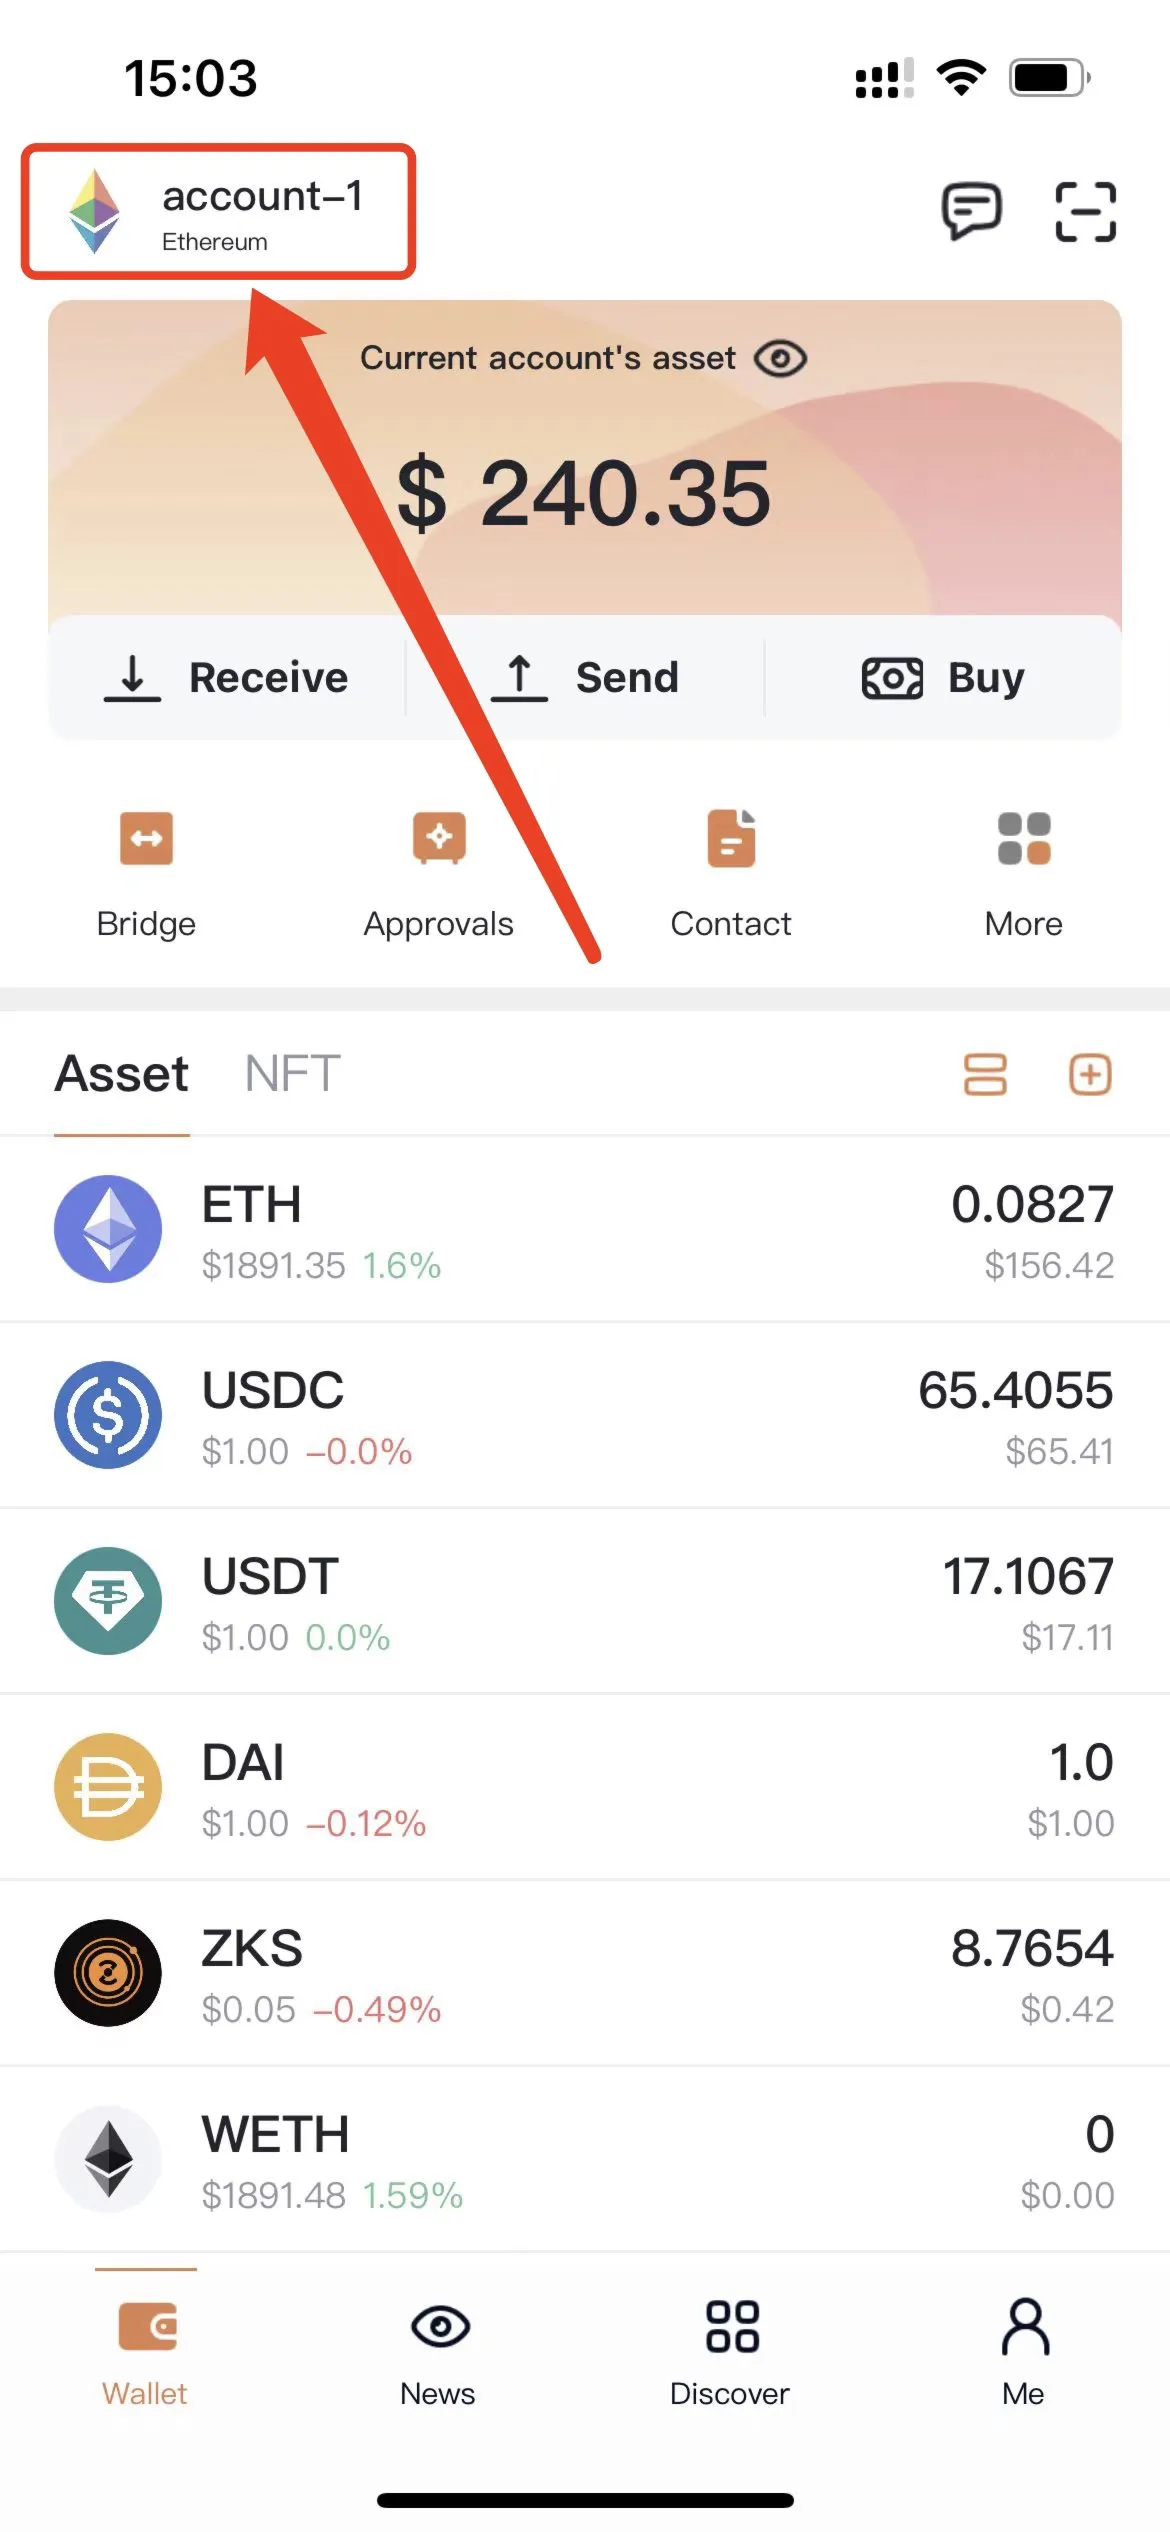
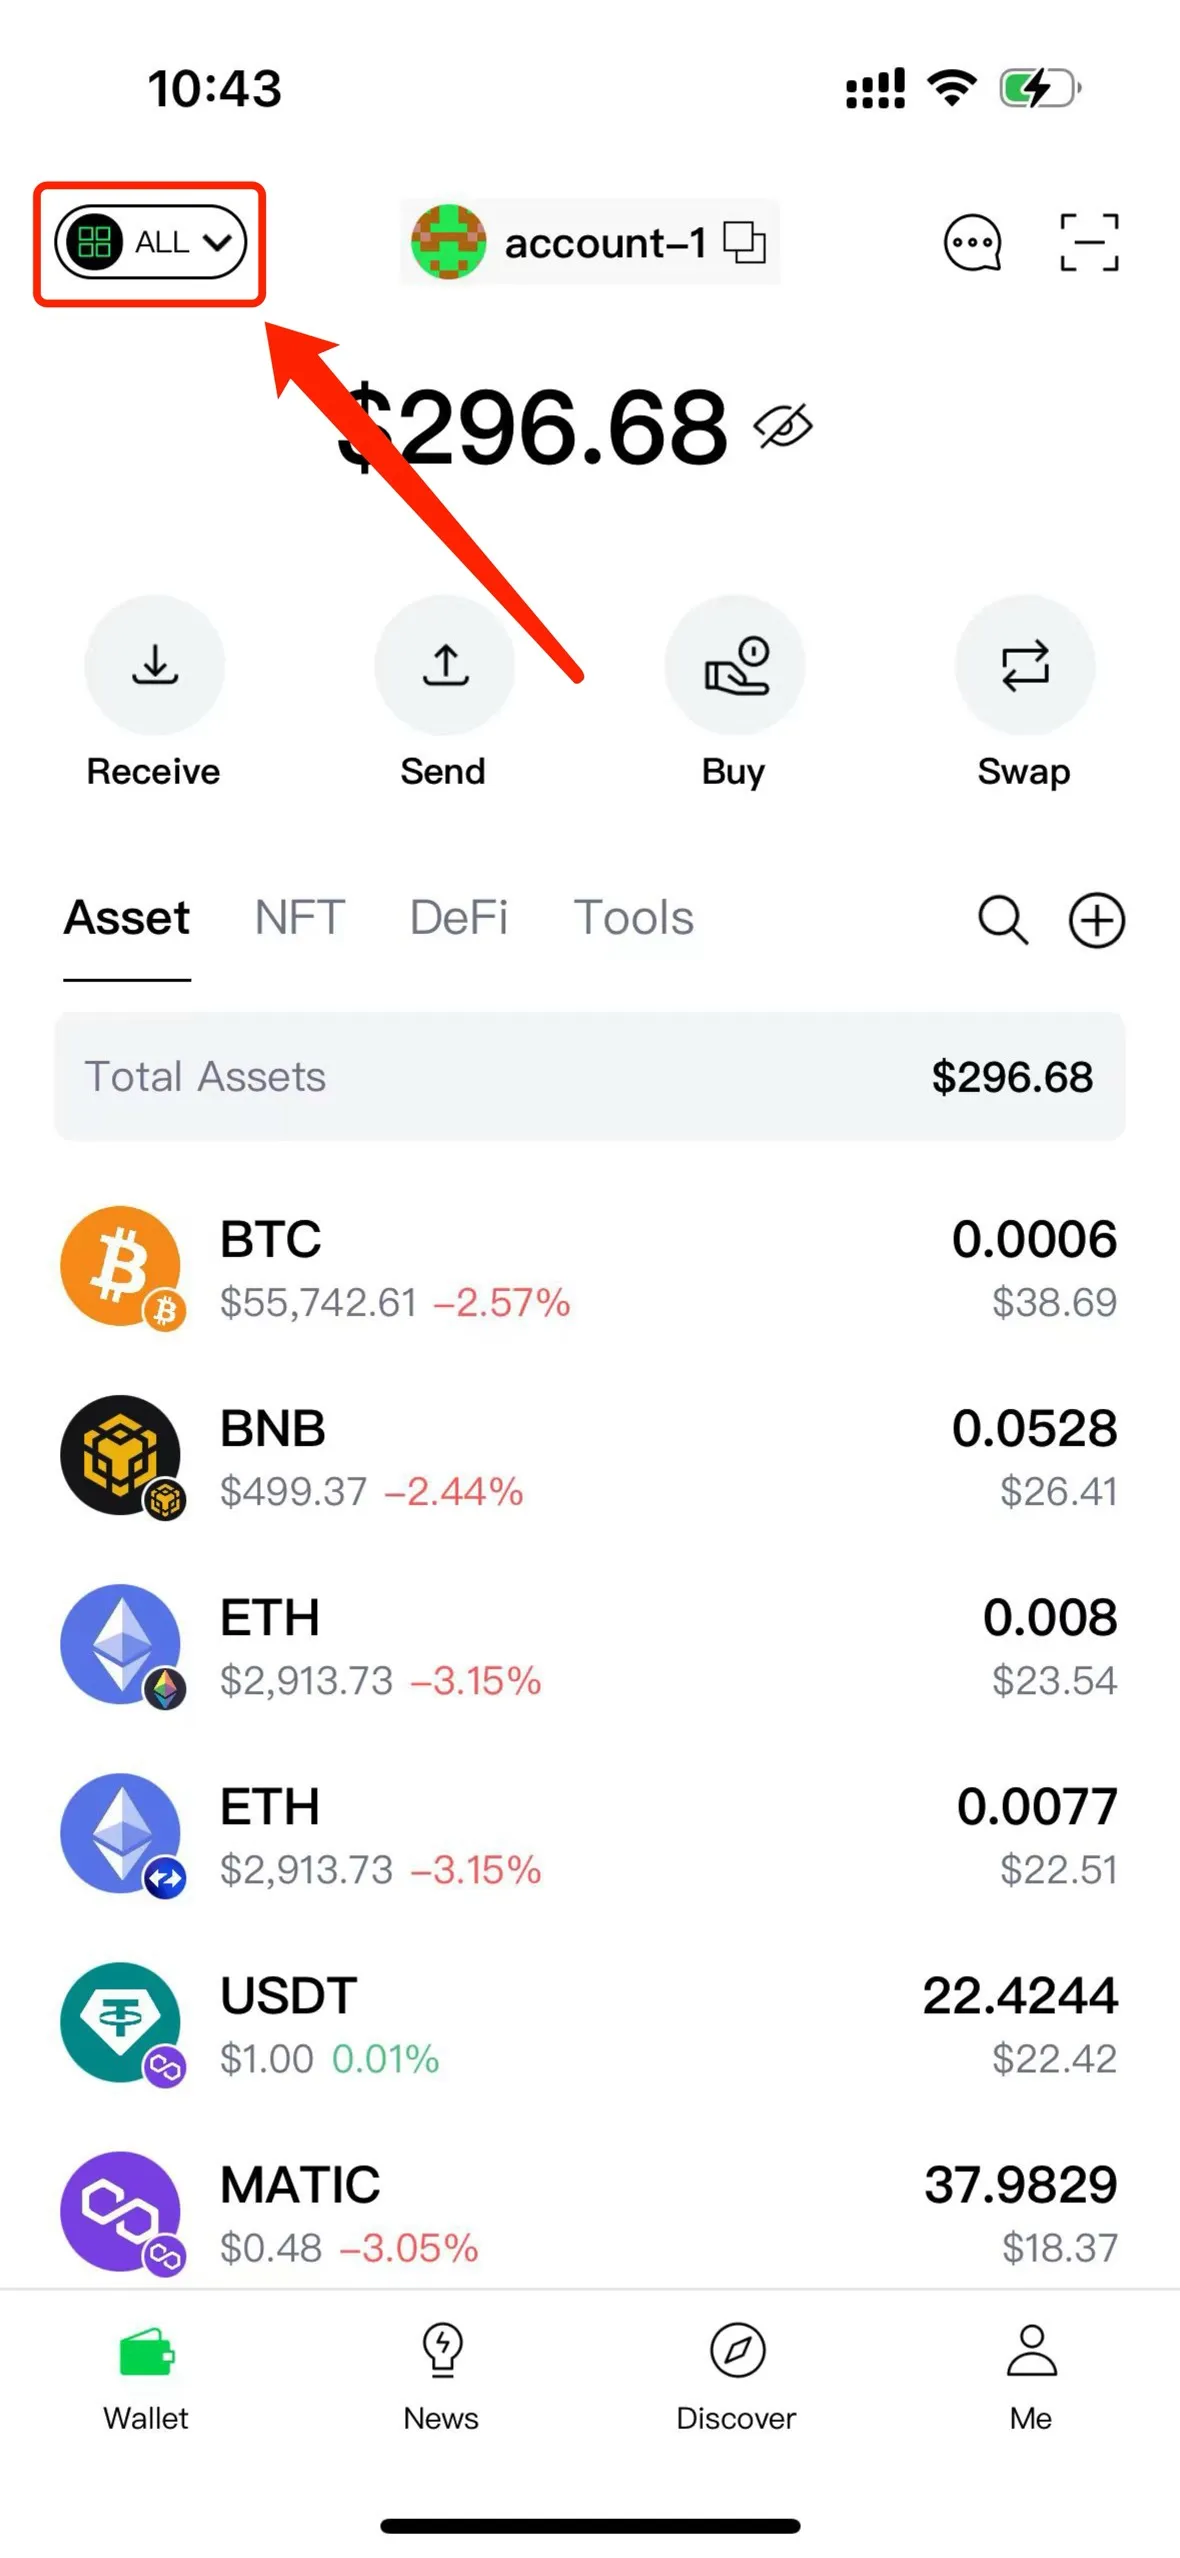
update

diff --git a/docs/02-basic/11-speed-up-or-cancel-tx.md b/docs/02-basic/11-speed-up-or-cancel-tx.md
@@ -22,8 +22,6 @@ Go to the "Transaction Detail" page, and click "Speed up" to re-broadcast your t
 
 If you have more than one transactions get stucked, you need speed up the earliest one first. Only when the earliest get confirmed, the following transaction can be processed.
 
-![](../img/pending.webp)
-
 ## Cancel Transaction
 If you send a transaction by mistake, and luckily the transaction is not confirmed, you can go to the "Transaction Detail" page, and click "Cancel" to re-broadcast your tx, [FoxWallet](https://foxwallet.com) will create a new transaction sending funds to your self with higher gas.
 
@@ -34,13 +32,9 @@ To solve this problem, FoxWallet has introduced a transaction canceller tool.
 
 To access the tool, click on the "More" button in the tools section under the "Wallet" tab, and then click on the "Canceller" option.
 
-<img src="/img/docs/tool-more.webp" width="320" /> <img src="/img/docs/tools-canceller.webp" width="320" />
-
 On the canceller page, users only need to fill in the nonce of the transaction. FoxWallet will then create a transfer from itself to itself to override the stuck transaction.   
 
 If you do not know what nonce to fill in, FoxWallet automatically fill in the nonce of the earliest stuck transaction in the memory pool.
-
-<img src="/img/docs/tool-canceller.webp" width="320" />
 
 ## Import to FoxWallet
 If your have stuck transactions in other wallet, you can import it to FoxWallet. The mnemonic is common across most wallets, private keys are supported too.

diff --git a/docs/02-basic/04-manage-wallet.md b/docs/02-basic/04-manage-wallet.md
@@ -7,17 +7,15 @@ You can view the "Manage Wallet" page via "Me" => "Settings" => "Switch Wallet",
 Click the "+ Add wallet" button in "Switch Wallet" page, select the corresponding method and follow the prompts to create or restore a wallet.
 
 ## Switch wallet
-Click the switch button on the left-top corner of wallet screen.  
+Click the account button on the center of wallet screen.  
 
-<img src="/img/docs/switch-entrance.webp" width="320" />  
+<img src="/img/docs/switch-account.webp" width="320" />  
 
 Click the wallet name title of pop-up screen.  
 
+<img src="/img/docs/switch-wallet.webp" width="320" /> 
+
 Select the wallet you want to switch to.  
-
-![](../img/switch-wallet-3.webp)  
-
-Back to the wallet screen, new wallet is switched.   
 
 ## Delete wallet
 Select the wallet that needs to be deleted, click the “...” button in the upper right corner, and then click “Delete”. 
@@ -36,7 +34,5 @@ Note: only mnemonic wallets can add new accounts.
 If you have more than one accounts, and want to delete one of them, the "Hide account" is your choice.
 
 Go to "Accounts" page => choose the chain => click the "..." button on the top-right corner of account card => "Hide".
-
-![](../img/hide-account-1.webp)![](../img/hide-account-2.webp)
 
 

diff --git a/docs/03-aleo/index.md b/docs/03-aleo/index.md
@@ -20,15 +20,11 @@ keywords:
 ## Usage
 - Download and open [FoxWallet](https://foxwallet.com/download)
 
-- Go to "Me" -> "Networks" select and download the zero-knowledge proof parameters for `Aleo Testnet3` to use.  
-<img src="/img/docs/networks-aleo.webp" width="320" />
+- Go to "Me" -> "Networks" select and download the zero-knowledge proof parameters for `Aleo Testnet` to use.  
 
-- Return to the wallet home page, click the switch button in the upper left corner, [switch network](https://hc.foxwallet.com/docs/basic/manage-funds#switch-networks) to `Aleo Testnet3`
-<img src="/img/docs/switch-network.webp" width="320" /> <img src="/img/docs/switch-aleo.webp" width="320" />
+- Return to the wallet home page, click the switch button in the upper left corner, [switch network](https://hc.foxwallet.com/docs/basic/manage-funds#switch-networks) to `Aleo Testnet`
 
 - View and transfer your ALEO  
-<img src="/img/docs/aleo-wallet.webp" width="320" /> <img src="/img/docs/aleo-transfer.webp" width="320" />
-
 
 ## Advance
 

diff --git a/docs/02-basic/03-manage-funds.md b/docs/02-basic/03-manage-funds.md
@@ -1,9 +1,9 @@
 # Manage Funds
 
-### Switch networks
-[FoxWallet](https://foxwallet.com) supports multiple chains, you can switch them through the button in the top left corner of the “Wallet”
+### Switch Networks
+[FoxWallet](https://foxwallet.com) supports multiple chains, you can switch them through the button in the top left corner of the “Wallet” Page.
 
-<img src="/img/docs/switch-entrance.webp" width="320" />
+<img src="/img/docs/switch-network.webp" width="320" />
 
 ### Receive
 Click the “Receive” button to get your wallet address.
@@ -13,8 +13,6 @@ Click the “Receive” button to get your wallet address.
 Click the coin you want to send in wallet main page => Click “transfer” => Input address and amount => Click "confirm"。
 
 Besides, FoxWallet offers the operation of "transfer between my accounts"。
-
-![](../img/transfer-in-wallet.webp)
 
 ### Transaction records
 Click on the asset in the “Asset” list to enter the asset details page and view historical transaction records.

diff --git a/docs/05-bitcoin/index.md b/docs/05-bitcoin/index.md
@@ -25,10 +25,9 @@ As an unprecedented form of currency, Bitcoin has withstood numerous market test
 * Create Wallet: https://hc.foxwallet.com/docs/basic/create-wallet
 * Enter the homepage, click the switch button in the upper left corner, switch the network to `Bitcoin`  
 
-  <img src="/img/docs/switch-network.webp" width="320" /> <img src="/img/docs/switch-bitcoin.webp" width="320" />
+  <img src="/img/docs/switch-network.webp" width="320" /> 
 * Click the "Receive" button to get your bitcoin receiving address
 * Click the "Send" button to enter the transfer page, and you can initiate a transfer to others.
-  <img src="/img/docs/bitcoin-asset.webp" width="320" />
 
 ### Multiple Address Formats
 <img src="/img/blog/rebranding-v5/bitcoin-switch-formats.webp" width="320" />

diff --git a/docs/02-basic/07-erc20-usage.md b/docs/02-basic/07-erc20-usage.md
@@ -7,11 +7,12 @@ keywords:
 # ERC20 Usage
 
 ## Add ERC20 Token
-
-Click the add button in main page => Input the token symbol or contract address to search => Click the “+” button.
+- Click the add button in main page
+- Input the token symbol or contract address to search
+- Click the “+” button.
 
 ## Remove ERC20 Token
-
-Click the add button in main page => Click the “-” button on the token you want to remove。
+- Click the add button in main page
+- Click the “-” button on the token you want to remove。
 
 

diff --git a/docs/02-basic/06-bookmark.md b/docs/02-basic/06-bookmark.md
@@ -4,11 +4,8 @@ You can use the page collection feature to manage your favorite pages, so you co
 
 **Steps:**
 
-1. Open a page, click the「...」button in the upper right corner  
+1. Go to "Discover" page
+2. Input the url in the top search bar
+3. Open the website, click the "bookmark" button in the bottom 
 
-2. Select「Collect」
-
-**Attention:**
-
-* Click "All" to manage favorites list  
-* Favorite feature is only available to part of pages
+<img src="/img/docs/bookmark.webp" width="320" /> 

diff --git a/docs/02-basic/08-invite.md b/docs/02-basic/08-invite.md
@@ -14,7 +14,7 @@ Invite your friends to [download FoxWallet](https://foxwallet.com/download), and
 ## 2. Invite your friends to download FoxWallet
 
 * Click "Share link" or "Share picture" button in "Share" page 
-* You can send the FoxWallet official website url `https://foxwallet.com/` too.
+* You can send the FoxWallet official website url `https://foxwallet.com/` as well.
 
 ## 3. Enter invite code
 

diff --git a/docs/02-basic/09-bridge.md b/docs/02-basic/09-bridge.md
@@ -12,5 +12,5 @@ It enables the flow of data and tokens across what would otherwise be siloed set
 
 **FoxWallet brings you an easy access to all the popular and reliable cross-chain bridges.**
 
-* Open FoxWallet, click the "Bridge" button  
+* Open FoxWallet, click the "Swap" button  
 * Select from network, to network and token

diff --git a/docs/04-aptos/index.md b/docs/04-aptos/index.md
@@ -23,9 +23,7 @@ keywords:
 ## Usage
 
 * Open [FoxWallet](https://foxwallet.com/), switch to Aptos and Select one account  
-  <img src="/img/docs/switch-entrance.webp" width="320" />
-  
-  ![](../img/switch-aptos.webp)
+  <img src="/img/docs/switch-network.webp" width="320" />
 
 * View and transfer your APT  
 

diff --git a/docs/02-basic/10-approval.md b/docs/02-basic/10-approval.md
@@ -17,7 +17,5 @@ Once an approval is granted, some smart contracts may be able to execute transac
 * Open FoxWallet, click the "More" button  
 
 * Click the "Approvals" button in the tools page  
-  ![](../img/tools-approvals.webp)
 
 * Review and revoke your token approvals  
-  ![](../img/approvals.webp)

diff --git a/docs/02-basic/05-address-book.md b/docs/02-basic/05-address-book.md
@@ -12,8 +12,6 @@ This feature also minimizes the risk of manual typing errors in cryptocurrency a
 
 2. Click "Contacts"
 
-<img src="/img/docs/me-contacts.webp" width="320" /> 
-
 3. Select the network for the address you want to save
 
 4. Click the "+" button to add an address
